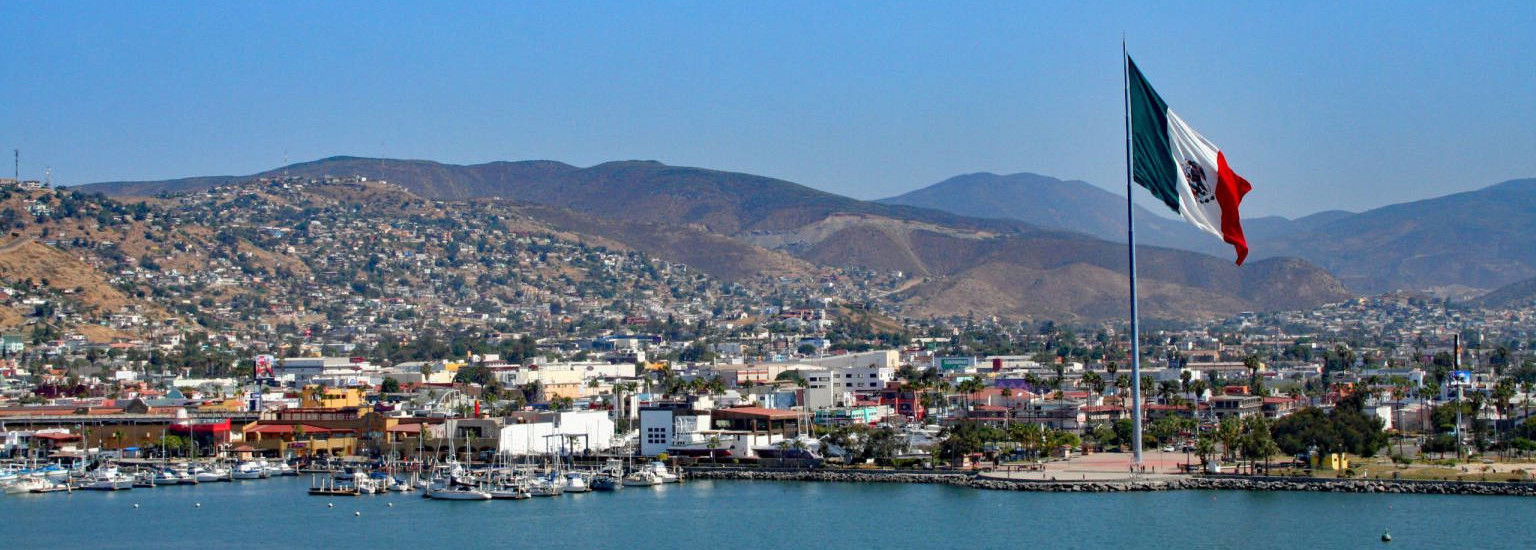
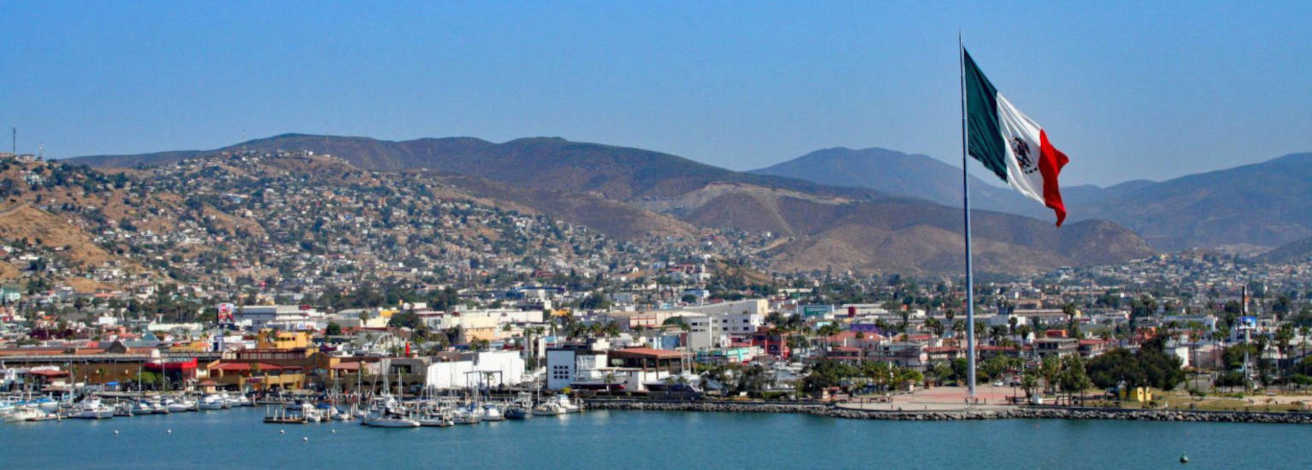
Added moremto chamber home page

diff --git a/chamber/index.html b/chamber/index.html
@@ -37,14 +37,60 @@
     <main>
         <div id="hero">
             <div id="hero-box">
-                <img id="hero-img" src="images/hero.jpg" alt="Ensenada Malecon" width="1536" height="550">
+                <picture>
+                    <source srcset="images/hero-small.jpg" media="(max-width: 653px)">
+                    <img id="hero-img" src="images/hero.jpg" alt="Ensenada Malecon" width="1536" height="550">
+                </picture>
             </div>
             <div class="button-box">
                 <a class='join' href="#">Join the Chamber</a>
             </div>
         </div>
-        <section></section>
-        <section></section>
+        <section class="card-grid">
+            <div class="event">
+                <h2>Featured Events</h2>
+                <hr>
+            </div>
+            <div class="event">
+                <p>Ribbon Cutting - The Diamond Shack</p>
+                <p>Join us for the grand opening of The Diamond Shack, Thursday at 1:00 p.m.</p>
+                <a href="#">more info ...</a>
+            </div>
+        </section>
+        <section>
+            <h2>Weather</h2>
+            <div>
+                <p>⛅</p>
+                <p>33°C</p>
+                <p>Partly cloudy</p>
+            </div>
+            <p>Humidity: <span>35%</span></p>
+            <p>Wind Chill: <span>N/A</span></p>
+        </section>
+        <div class="spotlight-grid">
+            <h2>Member Spotlight</h2>
+            <section>
+                <h2>Thankful Transport</h2>
+                <p>"We get it here for you!"</p>
+                <a href="#">hello@thankfultransport.com</a>
+                <a href="#">+52-646-646-6464</a>
+                <a href="#">Website</a>
+            </section>
+            <section>
+                <h2>Code Primera</h2>
+                <p>After school coding!</p>
+                <a href="#">contact@codeprimera.com</a>
+                <a href="#">+52-646-646-6464</a>
+                <a href="#">Website</a>
+            </section>
+            <section>
+                <h2>Build A Treefort</h2>
+                <p>Over 1,000 Plans!</p>
+                <a href="#">builda@trefort.com</a>
+                <a href="#">+52-646-646-6464</a>
+                <a href="#">Website</a>
+            </section>
+        </div>
     </main>
     <footer>
         <div class="contact">

diff --git a/chamber/styles/base.css b/chamber/styles/base.css
@@ -74,9 +74,73 @@ header h1 span {
     content: "X";
 }
 
+#hero {
+    display: grid;
+    grid-template-columns: 1fr 1fr;
+}
+
+#hero-box {
+    grid-column: 1/3;
+    grid-row: 1/3;
+    z-index: -1;
+}
+
 #hero-img {
     width: 100%;
     height: auto;
+}
+
+.button-box {
+    grid-column: 1/3;
+    grid-row: 1/3;
+    align-content: center;
+}
+
+.join {
+    margin: auto;
+    padding: 1rem;
+    background-color: #4e2d72;
+    color: #fff;
+    text-decoration: none;
+    font-size: 1.5rem;
+    font-family: "Noto Sans", sans-serif;
+    border-radius: 10px;
+}
+
+.join:hover {
+    color: #feb065;
+}
+
+main {
+    margin: auto;
+    max-width: 1100px;
+    text-align: center;
+}
+
+main section {
+    margin: 1rem auto;
+    padding: 1rem;
+    border: 1px solid #4e2d72;
+    background-color: #feb065;
+}
+
+.card-grid {
+    display: grid;
+    grid-template-columns: 1fr 1fr;
+    gap: 1rem;
+}
+
+.event hr {
+    border: none;
+    border-top: #000;
+}
+
+.spotlight-grid {
+    display: grid;
+}
+
+.spotlight-grid a {
+    display: block;
 }
 
 footer {

diff --git a/chamber/styles/larger.css b/chamber/styles/larger.css
@@ -11,6 +11,15 @@
         display: none;
     }
 
+    .spotlight-grid {
+        grid-template-columns: repeat(3, 1fr);
+        align-items: center;
+    }
+
+    .spotlight-grid h2 {
+        grid-column: span 3;
+    }
+
     .student-info {
         display: flex;
         justify-content: space-evenly;
